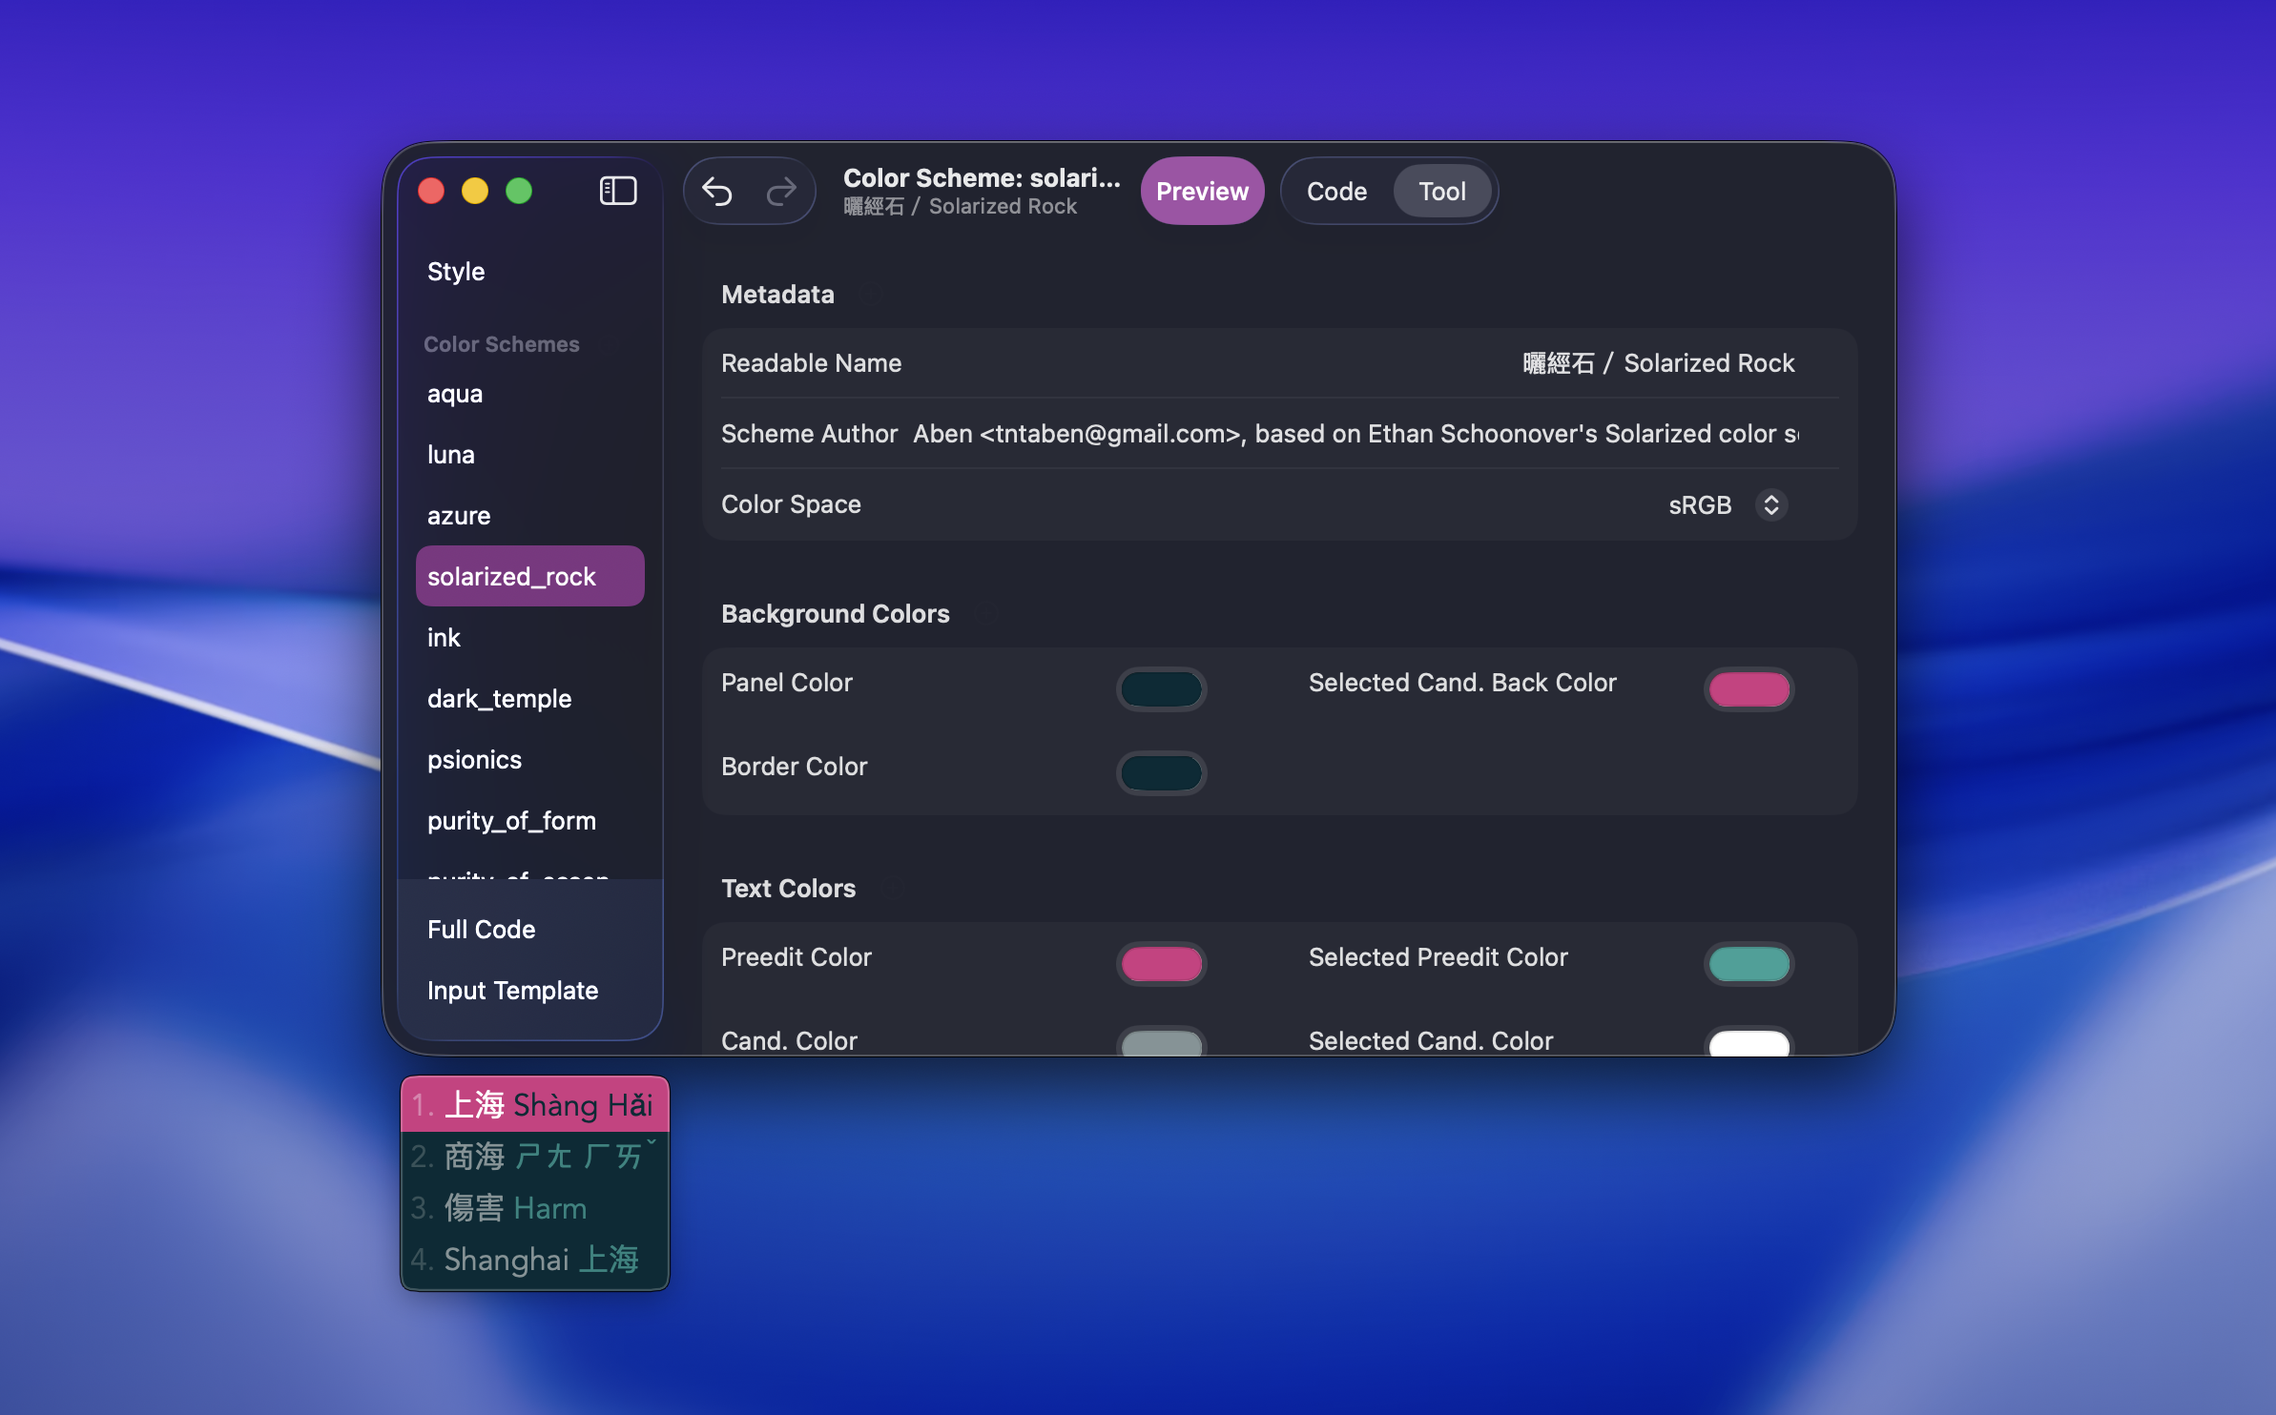
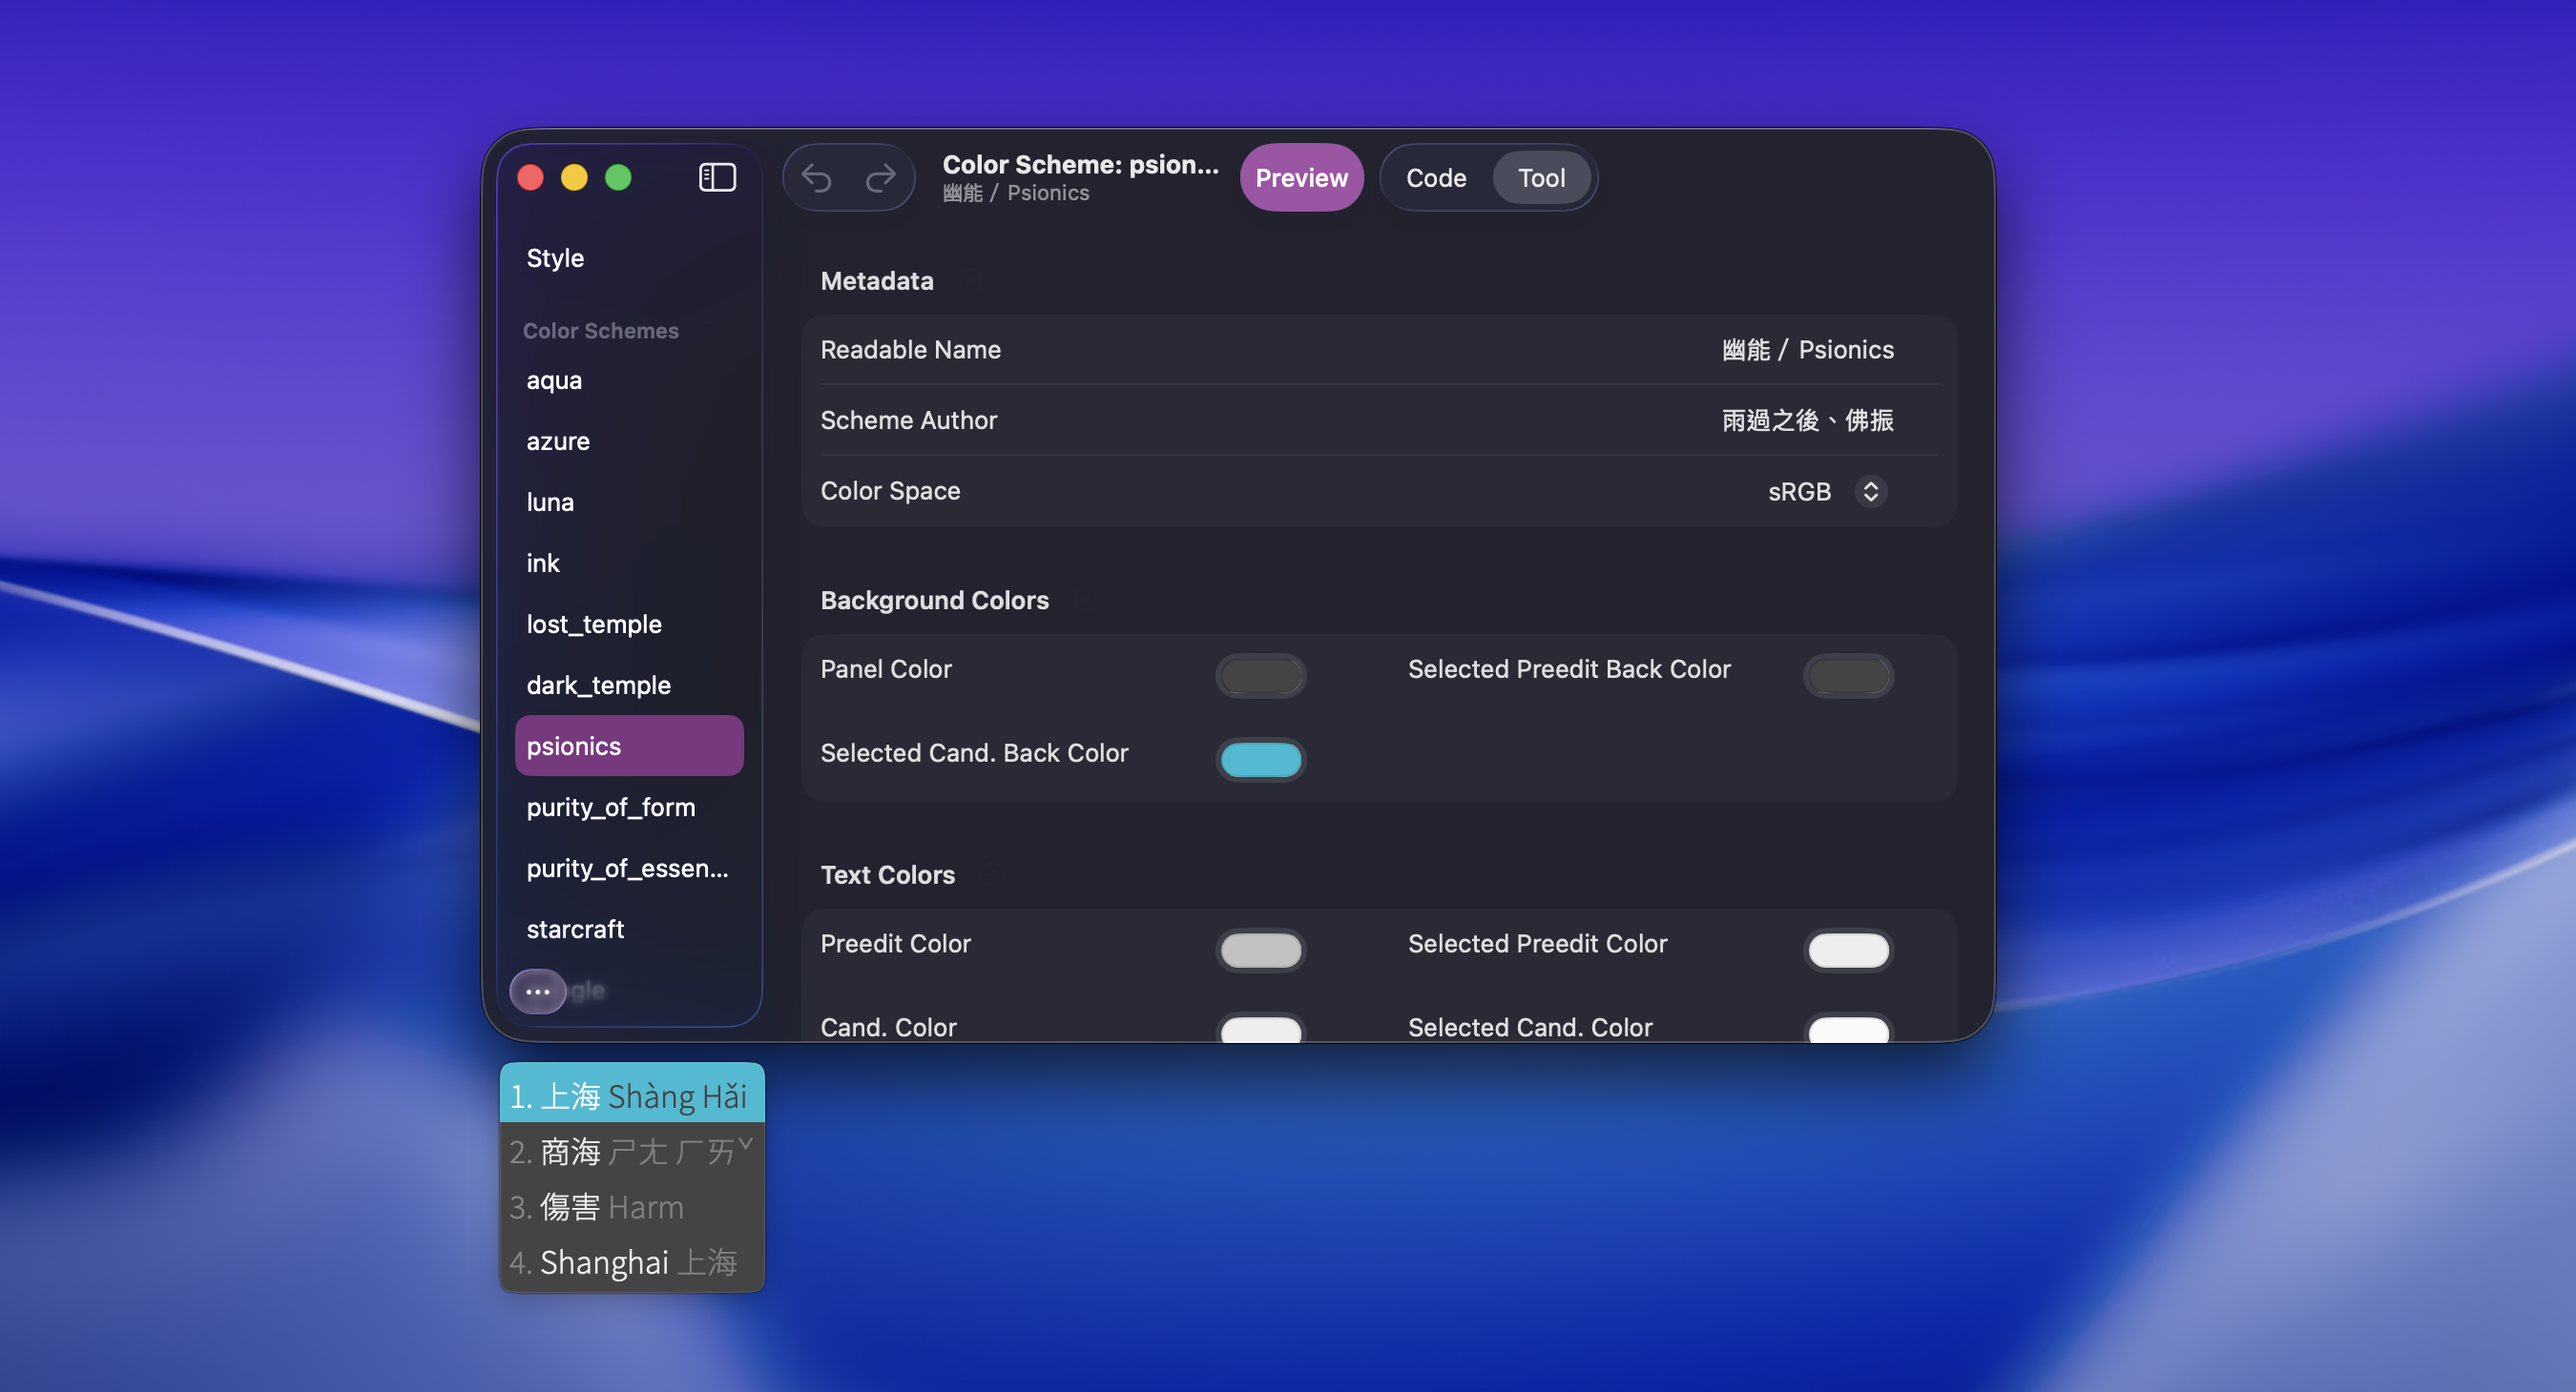
Better navigation panel on macOS 26
improve code for Button
Remove background for some text fields

diff --git a/Squirrel Designer/Views/MainView.swift b/Squirrel Designer/Views/MainView.swift
@@ -25,28 +25,33 @@ struct MainView: View {
 
     var body: some View {
         NavigationSplitView {
-            List(selection: viewModel.binding(\.selection)) {
-                pinnedTopButtons
+            let list = List(selection: viewModel.binding(\.selection)) {
+                Text("STYLE")
+                    .tag(Selection.style)
                 colorSchemesSection
             }
-            .safeAreaInset(edge: .bottom, spacing: 0) {
-                pinnedBottomButtons
+            if #available(macOS 26.0, *) {
+                list
+                .safeAreaBar(edge: .bottom) {
+                    pinnedBottomMenu
+                }
+            } else {
+                list
+                .safeAreaInset(edge: .bottom, spacing: 0) {
+                    pinnedBottomButtons
+                }
             }
         } detail: {
             detailsView
         }
         .toolbar {
             ToolbarItemGroup(placement: .navigation) {
-                Button {
+                Button("UNDO", systemImage: "arrow.uturn.backward") {
                     viewModel.undoManager.undo()
-                } label: {
-                    Label("UNDO", systemImage: "arrow.uturn.backward")
                 }
                 .disabled(!viewModel.undoManager.canUndo)
-                Button {
+                Button("REDO", systemImage: "arrow.uturn.forward") {
                     viewModel.undoManager.redo()
-                } label: {
-                    Label("REDO", systemImage: "arrow.uturn.forward")
                 }
                 .disabled(!viewModel.undoManager.canRedo)
             }
@@ -88,17 +93,13 @@ struct MainView: View {
                         if index >= 0 && index < viewModel.squirrelSetting.colorSchemes.count {
                             Text(viewModel.squirrelSetting.colorSchemes[index].codeName)
                                 .contextMenu {
-                                    Button {
+                                    Button("RENAME", systemImage: "pencil") {
                                         performRename(index: index)
-                                    } label: {
-                                        Label("RENAME", systemImage: "pencil")
                                     }
-                                    Button {
+                                    Button("DUPLICATE", systemImage: "document.on.document") {
                                         performDuplication(index: index)
-                                    } label: {
-                                        Label("DUPLICATE", systemImage: "document.on.document")
                                     }
-                                    Button(role: .destructive) {
+                                    Button("DELETE", systemImage: "trash", role: .destructive) {
                                         if index >= 0 && index < viewModel.squirrelSetting.colorSchemes.count {
                                             viewModel.squirrelSetting.colorSchemes.remove(at: index)
                                             viewModel.save()
@@ -110,8 +111,6 @@ struct MainView: View {
                                                 }
                                             }
                                         }
-                                    } label: {
-                                        Label("DELETE", systemImage: "trash")
                                     }
                                 }
                         }
@@ -126,10 +125,8 @@ struct MainView: View {
             }
         } header: {
             AddableTitle(title: "COLOR_SCHEMES", show: true) {
-                Button {
+                Button("ADD_ITEM", systemImage: "plus.circle") {
                     addNewScheme()
-                } label: {
-                    Label("ADD_ITEM", systemImage: "plus.circle")
                 }
                 .labelStyle(.iconOnly)
                 .buttonStyle(.borderless)
@@ -138,34 +135,41 @@ struct MainView: View {
         }
     }
 
-    var pinnedTopButtons: some View {
-        ForEach([Selection.style], id: \.self) { sel in
-            switch sel {
-            case .style:
-                Text("STYLE")
-            default:
-                EmptyView()
-            }
-        }
-    }
-
     var pinnedBottomButtons: some View {
         List(selection: viewModel.binding(\.selection)) {
-            ForEach([Selection.allSettings, .template], id: \.self) { sel in
-                switch sel {
-                case .allSettings:
-                    Text("ALL_CODE")
-                case .template:
-                    Text("TEMPLATE")
-                default:
-                    EmptyView()
-                }
-            }
+            Text("ALL_CODE")
+                .tag(Selection.allSettings)
+            Text("TEMPLATE")
+                .tag(Selection.template)
         }
         .frame(maxHeight: 75)
         .listStyle(.sidebar)
         .padding(.top, 10)
         .background(.ultraThinMaterial)
+    }
+
+    @available(macOS 26.0, *)
+    var pinnedBottomMenu: some View {
+        HStack {
+            Menu("SETTINGS", systemImage: "ellipsis") {
+                Button("ALL_CODE", systemImage: "doc.append.rtl") {
+                    viewModel.selection = .allSettings
+                }
+                .labelStyle(.titleAndIcon)
+                Button("TEMPLATE", systemImage: "filemenu.and.selection") {viewModel.selection = .template
+                }
+                .labelStyle(.titleAndIcon)
+            }
+            .padding(5)
+            .menuIndicator(.hidden)
+            .menuStyle(.button)
+            .labelStyle(.iconOnly)
+            .buttonBorderShape(.circle)
+            .buttonStyle(.borderless)
+            .glassEffect(.clear.tint(.accentColor.opacity(0.12)))
+            Spacer()
+        }
+        .padding(7)
     }
 
     var detailsView: some View {

diff --git a/Squirrel Designer/Views/TemplateView.swift b/Squirrel Designer/Views/TemplateView.swift
@@ -41,7 +41,6 @@ struct TemplateView: View {
             TextField("PREEDIT_HILIT", text: _template.preedit.highlighted)
             TextField("PREEDIT_AFTER_HILIT", text: _template.preedit.afterHighlighted)
         }
-        .textFieldStyle(.roundedBorder)
     }
 
     var candidatesSection: some View {
@@ -63,12 +62,10 @@ struct TemplateView: View {
             }
         } header: {
             AddableTitle(title: "CANDIDATES", show: true) {
-                Button {
+                Button("ADD_ITEM", systemImage: "plus.circle") {
                     var newCandidate = Candidate()
                     newCandidate.label = "\(template.candidates.count + 1)"
                     _template.wrappedValue.candidates.append(newCandidate)
-                } label: {
-                    Label("ADD_ITEM", systemImage: "plus.circle")
                 }
                 .labelStyle(.iconOnly)
                 .buttonStyle(.borderless)
@@ -101,10 +98,8 @@ struct CandidateRow: View {
     }
 
     var deleteButton: some View {
-        Button {
+        Button("DELETE_ROW", systemImage: "minus.circle") {
             onDelete()
-        } label: {
-            Label("DELETE_ROW", systemImage: "minus.circle")
         }
         .labelStyle(.iconOnly)
         .buttonStyle(.borderless)

diff --git a/Squirrel Designer/Views/StyleView.swift b/Squirrel Designer/Views/StyleView.swift
@@ -56,7 +56,6 @@ struct StyleView: View {
             }
             StaticRow {
                 TextField("CAND_FORMAT", text: _style.candidateFormat)
-                    .textFieldStyle(.roundedBorder)
             }
         } footer: {
             Text(String(localized: "CAND_FORMAT_TIP") + String("[label], [candidate], [comment]"))
@@ -199,12 +198,10 @@ struct FontsSelector: View {
                         HStack {
                             FontSelector(font: $fonts[index])
                             if (index == 0 && (allowEmpty || fonts.count > 1)) || index > 0 {
-                                Button {
+                                Button("DELETE_ROW", systemImage: "minus.circle") {
                                     if index >= 0 && index < fonts.count {
                                         fonts.remove(at: index)
                                     }
-                                } label: {
-                                    Label("DELETE_ROW", systemImage: "minus.circle")
                                 }
                                 .labelStyle(.iconOnly)
                                 .buttonStyle(.borderless)

diff --git a/Squirrel Designer/Views/CodeView.swift b/Squirrel Designer/Views/CodeView.swift
@@ -67,11 +67,9 @@ struct CodeView: View {
         .toolbar {
             ToolbarItemGroup(placement: .confirmationAction) {
                 if isEditing {
-                    Button {
+                    Button("RESTORE", systemImage: "arrow.trianglehead.counterclockwise") {
                         encode()
                         isEditing = false
-                    } label: {
-                        Label("RESTORE", systemImage: "arrow.trianglehead.counterclockwise")
                     }
                 }
                 Toggle(isOn: $isEditing) {

diff --git a/Squirrel Designer/Utils.swift b/Squirrel Designer/Utils.swift
@@ -48,10 +48,8 @@ struct DeletableRow<T, Content: View>: View {
     }
 
     var deleteButton: some View {
-        Button {
+        Button("DELETE_ROW", systemImage: "minus.circle") {
             optional = nil
-        } label: {
-            Label("DELETE_ROW", systemImage: "minus.circle")
         }
         .labelStyle(.iconOnly)
         .buttonStyle(.borderless)
